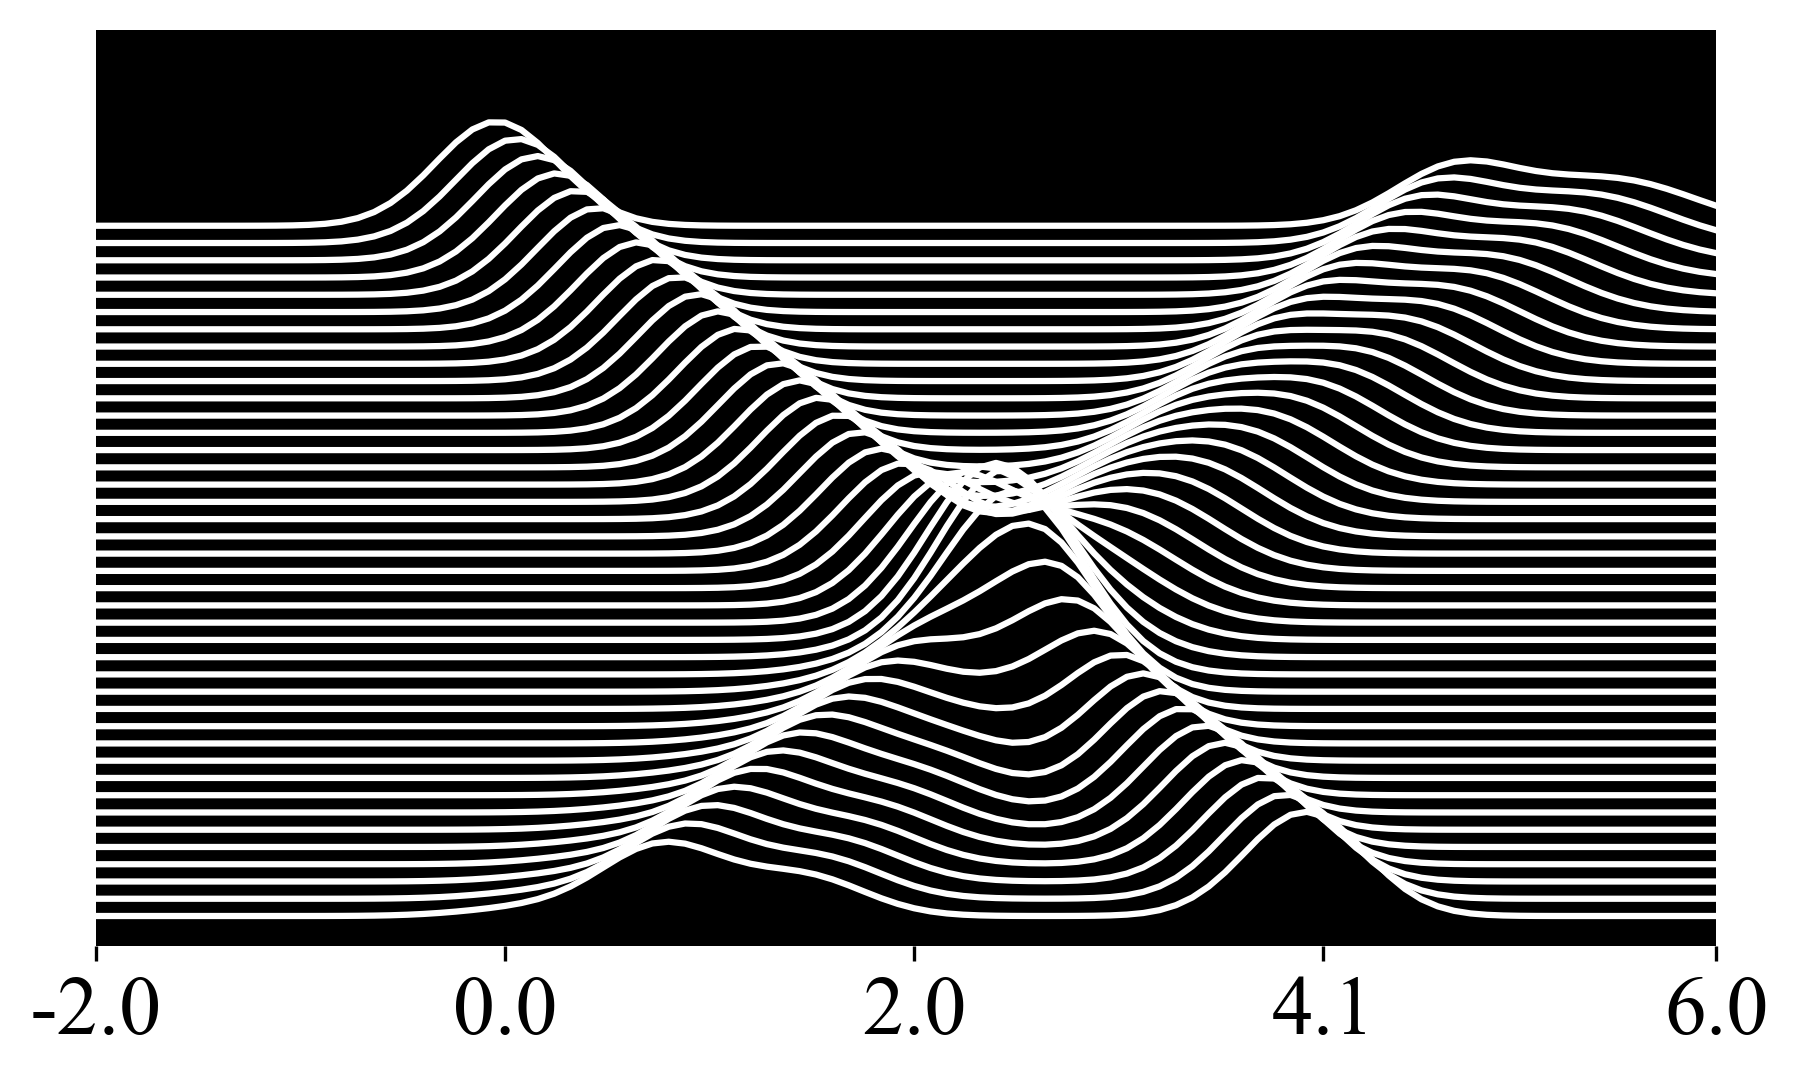
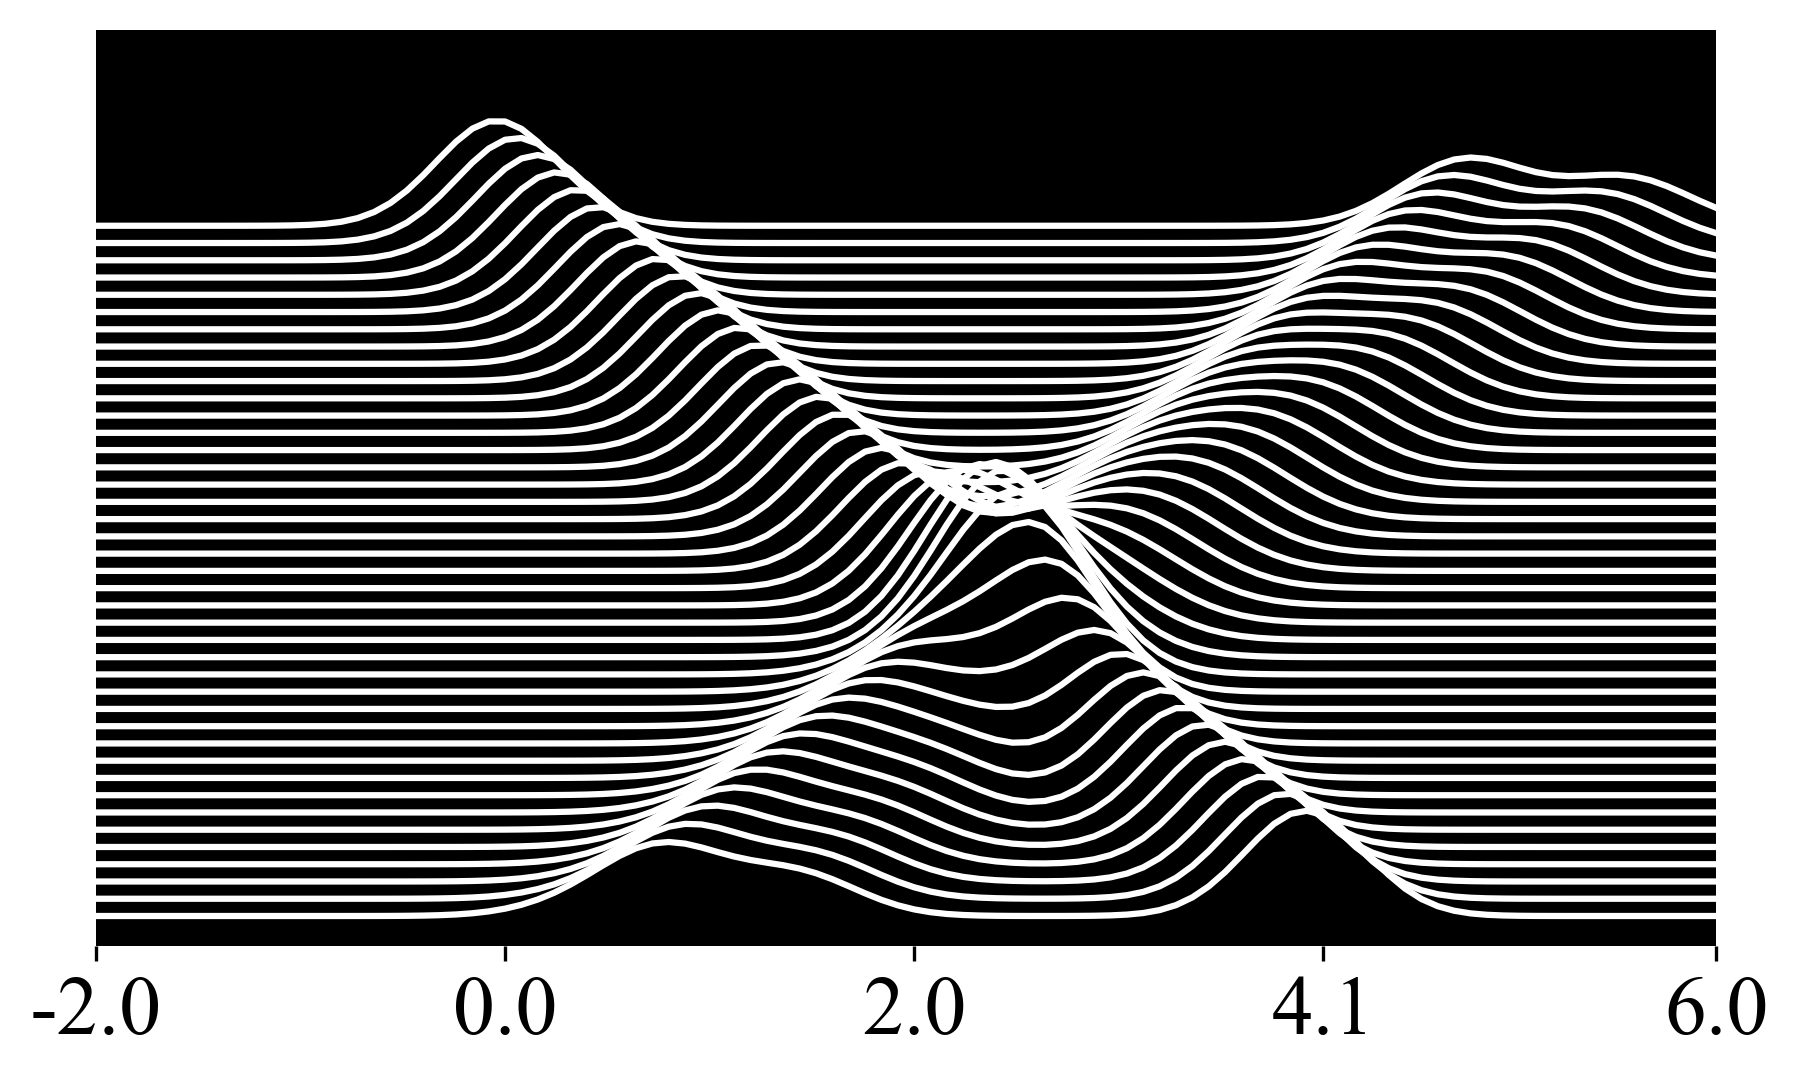
ridgeline plots

diff --git a/scripts/run_ridgeline_plot.py b/scripts/run_ridgeline_plot.py
@@ -26,7 +26,7 @@ if __name__ == "__main__":
     # default
     if len(sys.argv) < 3:
         config = '2'
-        error_type = 'homo' # error type can be hetero for config = 1,2,3
+        error_type = 'hetero' # error type can be hetero for config = 1,2,3
     # otherwise take argyments from command line
     else:
         #sys_argv[0] is the name of the .py file
